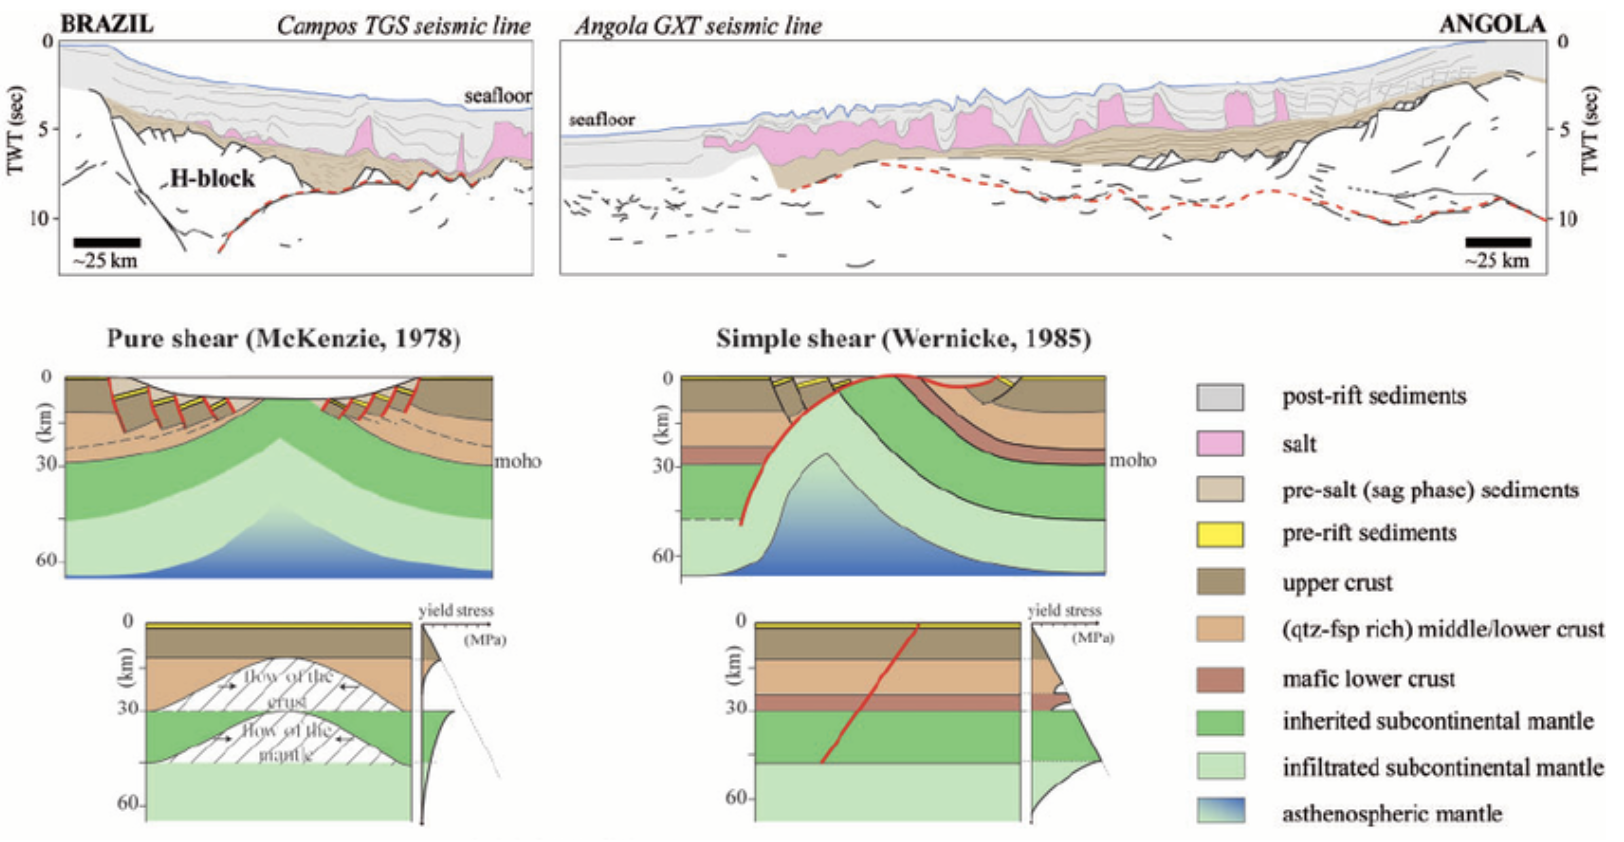
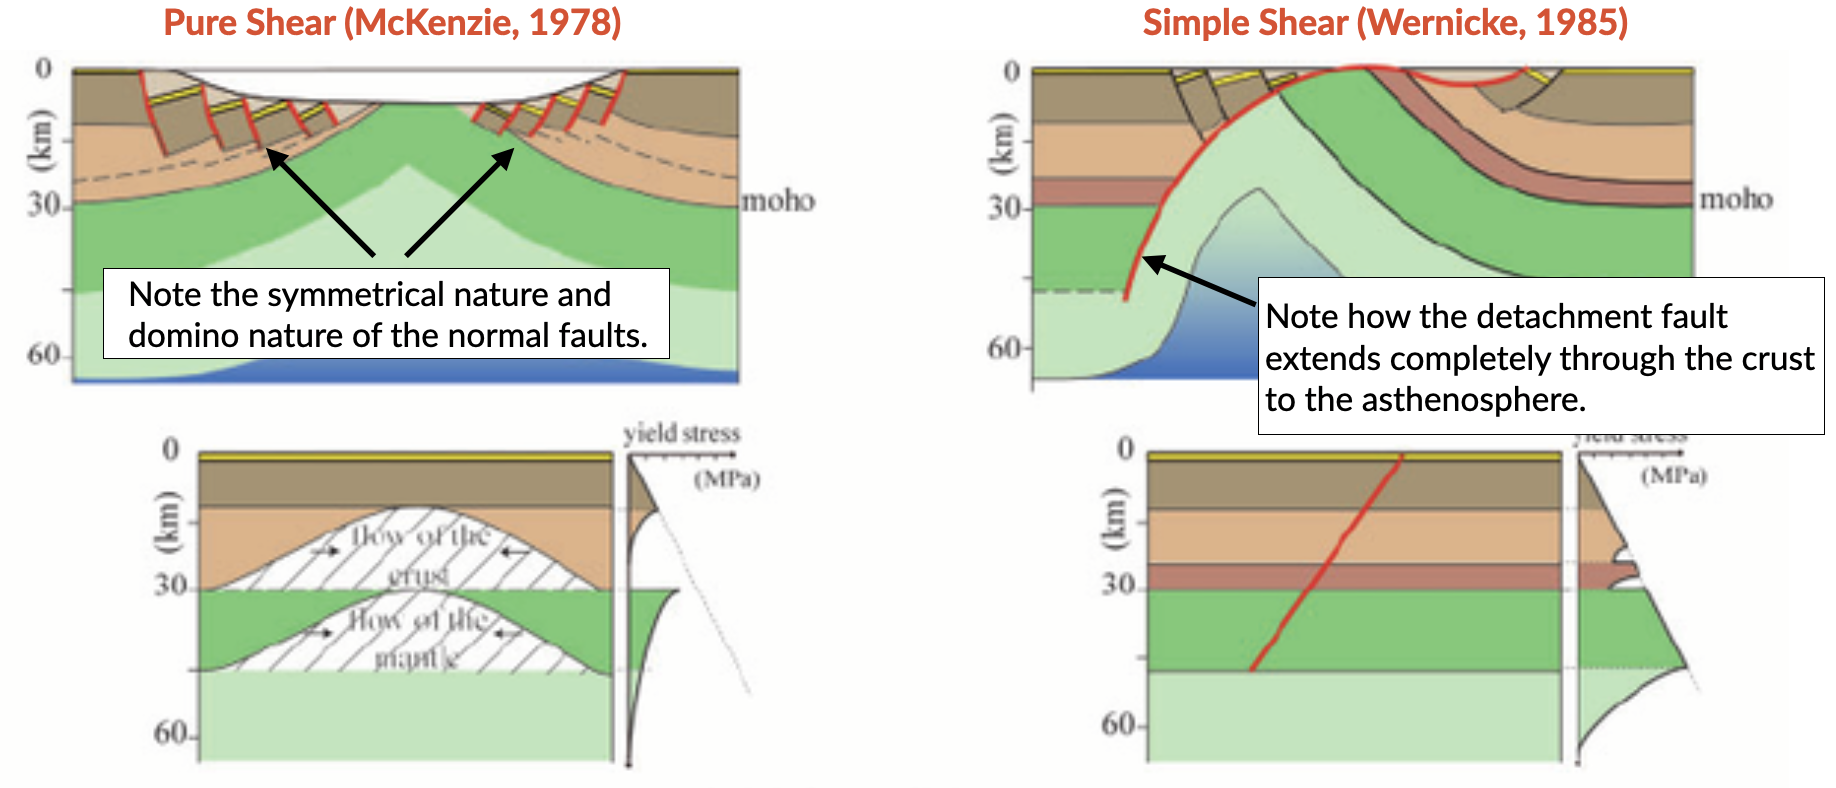
add content

diff --git a/docs/tectonics.rst b/docs/tectonics.rst
@@ -221,9 +221,16 @@ A **successful rift** is one in which extensional deformation completely splits 
       :alt: pure and simple shear
       :align: center
 
-      Pure shear rift model (left side) and simple shear rift model (right side) and their predictions for the interpretation of the Campos–Angola rifted margins. The line drawing shows the Campos–Angola rift system as imaged in seismic sections. The two models represent idealised and simplified models that permit to discuss the major predictions for the evolution and final structure of the South Atlantic hyper-extended rift system (from Unternehr et al., 2010).
+      Pure shear rift model (left side) and simple shear rift model (right side). The two models represent idealised and simplified models that permit to discuss the major predictions for the evolution and final structure of the South Atlantic hyper-extended rift system (from Unternehr et al., 2010).
+
+
+    In the pure-shear model, the crustal and lithospheric extension during rifting is uniform and symmetrical. The rifting is perpendicular to the rift axis and stretches across the upper and lower crust. Faulting and deformation  occurs in upper brittle crust. In this model, there is a rapid subsidence associated with initial stretching. Subsequently, subsidence slows down as lithosphere extends away from the thermal anomaly.
+
+    The simple-shear model suggests that lithospheric extension is governed by a major shallow dipping normal fault that cuts completely through the crust. The model is asymmetrical with non-uniform deformation of the crust and the creation of an upper plate/lower plate model of rifting. Faulting occurs in brittle crust of upper plate (domino effect). The lower plate side is more ductile with less deformation.
+
 
     `Link to A/Prof Patrice Rey <http://www.geosci.usyd.edu.au/users/prey/ACSGT/EReports/eR.2003/GroupB/Report1/models.html>`_ pure and simple shear model explanations.
+
 
 
 Mantle-driven tectonic / dynamic topography
